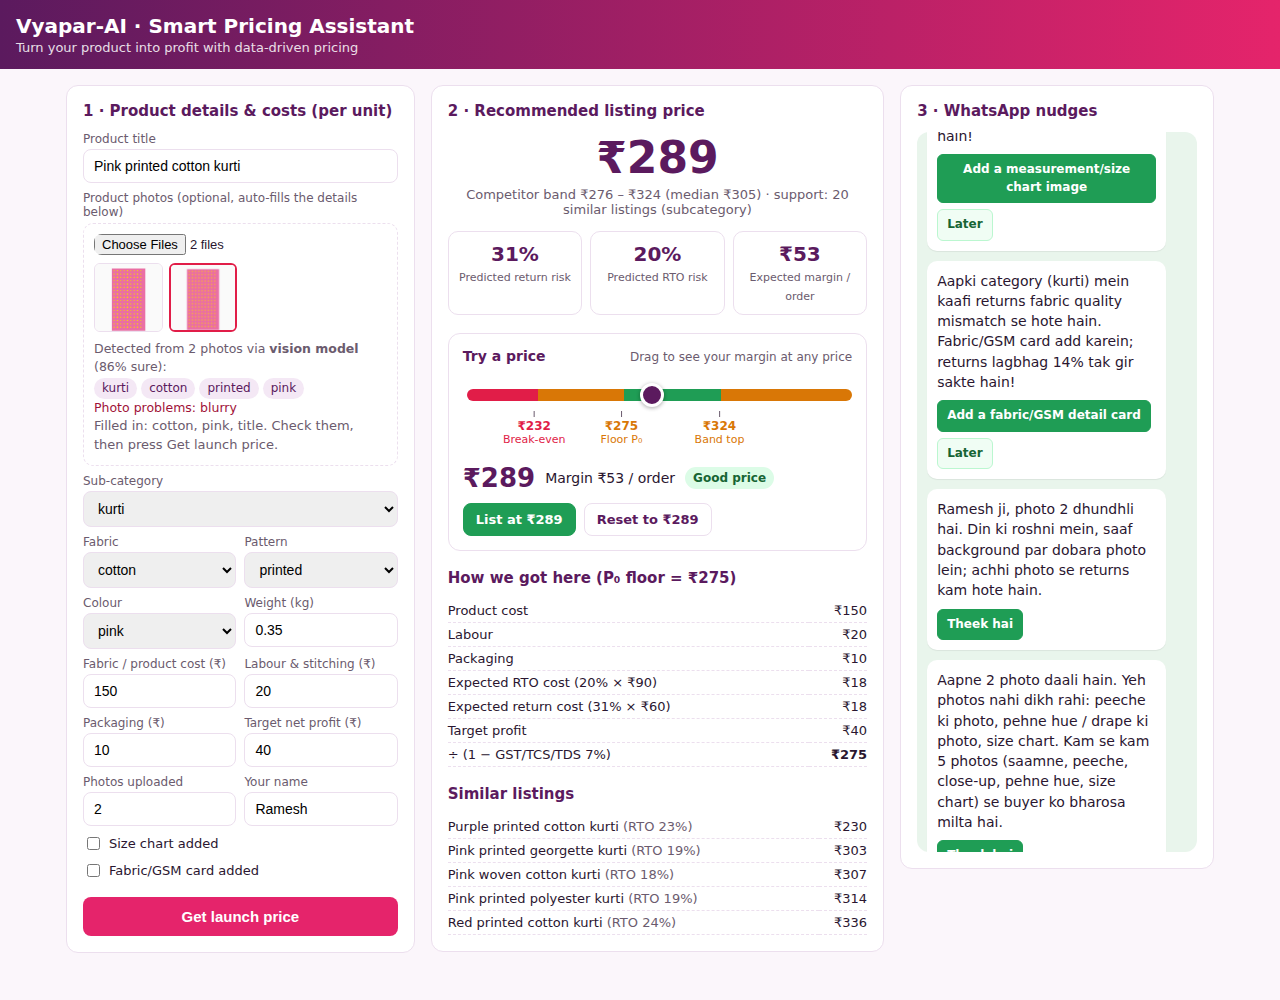
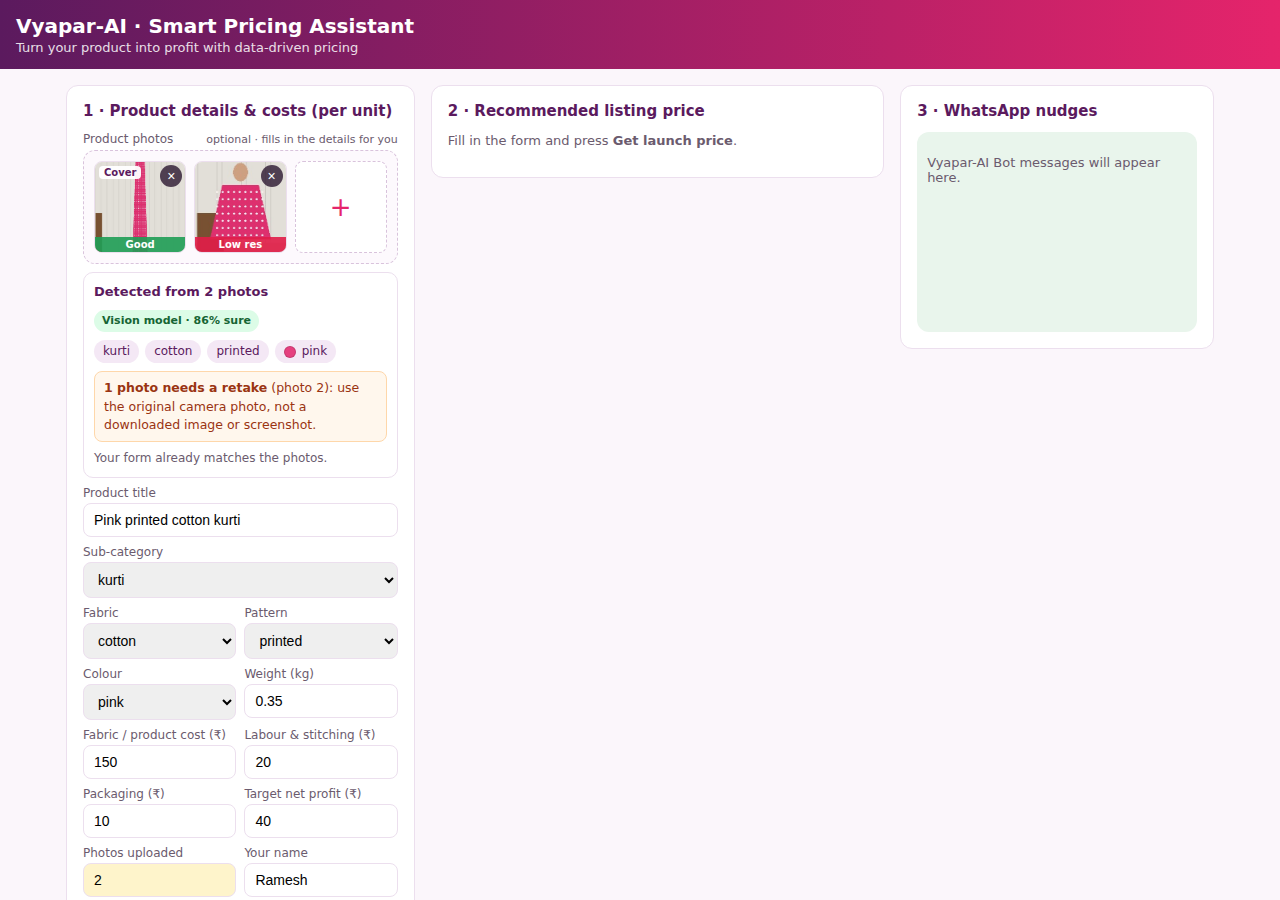
Improve photo upload UI and fix colour detection on room photos
- Colour: vote among clearly coloured pixels in the central region,
  weighted by saturation x brightness, so a pink kurti in front of an
  off-white wall is pink, not white. Neutral products fall back to
  black/white by dark-area share. Regression test added.
- Upload UI: photos first in the form, drag-and-drop zone, add-more tile,
  remove buttons, cover tag, per-photo Good/Low res/Blurry badges,
  detection card with source pill, colour swatch, retake tips, and a
  'from photo' tag on auto-filled fields.

diff --git a/web/index.html b/web/index.html
@@ -8,6 +8,7 @@
   :root { --plum:#5b1a5e; --pink:#e5246b; --green:#1f9d55; --amber:#d97706; --red:#e11d48; --bg:#fbf6fb;
           --card:#fff; --muted:#6b5b6e; --line:#ecdfee; --chat:#e9f5ec; --mine:#d9fdd3; }
   * { box-sizing: border-box; }
+  [hidden] { display:none !important; }
   body { margin:0; font-family: system-ui, -apple-system, "Segoe UI", sans-serif; background:var(--bg); color:#2a1630; }
   header { background:linear-gradient(90deg,var(--plum),var(--pink)); color:#fff; padding:14px 16px; }
   header h1 { margin:0; font-size:20px; } header p { margin:2px 0 0; opacity:.85; font-size:13px; }
@@ -82,18 +83,47 @@
   .muted { color:var(--muted); font-size:13px; }
 
   /* Photo upload */
-  .upload { margin-top:4px; border:1px dashed var(--line); border-radius:10px; padding:10px; }
-  .upload input[type=file] { border:0; padding:0; font-size:13px; }
-  .thumbs { display:grid; grid-template-columns:repeat(auto-fill, minmax(56px, 1fr)); gap:6px; margin-top:8px; }
-  .thumbs figure { margin:0; position:relative; }
-  .thumbs img { width:100%; aspect-ratio:1; object-fit:cover; border-radius:6px; border:1px solid var(--line); display:block; }
-  .thumbs figure.bad img { border:2px solid var(--red); }
-  .photo-status { margin-top:8px; font-size:12.5px; line-height:1.45; }
-  .photo-status .tag { display:inline-block; background:#f4e8f5; color:var(--plum); border-radius:999px; padding:2px 8px; margin:2px 4px 0 0; font-size:12px; }
-  .photo-status .bad { color:#9f1239; }
+  .vh { position:absolute; width:1px; height:1px; overflow:hidden; clip:rect(0 0 0 0); white-space:nowrap; }
+  .field-head { display:flex; justify-content:space-between; align-items:baseline; gap:8px; margin:8px 0 4px; }
+  .field-head .flabel { font-size:12px; color:var(--muted); }
+  .field-head .hint { font-size:11px; color:var(--muted); }
+  .dropzone { border:1.5px dashed #d9c3dc; border-radius:12px; background:#fdf9fd; padding:10px; transition:border-color .15s, background .15s; }
+  .dropzone.over { border-color:var(--pink); background:#fde9f0; }
+  .dz-empty { display:grid; justify-items:center; gap:4px; text-align:center; padding:14px 8px; cursor:pointer; margin:0; color:var(--plum); }
+  .dz-empty svg { width:30px; height:30px; color:var(--pink); }
+  .dz-empty b { font-size:14px; }
+  .dz-empty span { font-size:12px; color:var(--muted); }
+  .dz-empty .shotlist { font-size:11px; letter-spacing:.02em; }
+  .dz-empty:focus-within, .add-tile:focus-within { outline:2px solid var(--pink); outline-offset:2px; border-radius:8px; }
+  .thumbs { display:grid; grid-template-columns:repeat(auto-fill, minmax(72px, 1fr)); gap:8px; }
+  .thumbs:empty { display:none; }
+  .thumb { margin:0; position:relative; border-radius:8px; overflow:hidden; border:1px solid var(--line); background:#fff; }
+  .thumb img { width:100%; aspect-ratio:1; object-fit:cover; display:block; }
+  .thumb .cover { position:absolute; top:4px; left:4px; font-size:10px; font-weight:700; background:#fffffff0; color:var(--plum); padding:1px 5px; border-radius:4px; }
+  .thumb .rm { position:absolute; top:3px; right:3px; width:22px; height:22px; border-radius:50%; border:0; cursor:pointer;
+               background:#2a1630cc; color:#fff; font-size:14px; line-height:22px; padding:0; }
+  .thumb .badge { position:absolute; left:0; right:0; bottom:0; font-size:10px; font-weight:700; text-align:center; padding:2px 0;
+                  background:#e11d48e6; color:#fff; }
+  .thumb.ok .badge { background:#1f9d55e6; }
+  .add-tile { display:grid; place-items:center; aspect-ratio:1; border:1.5px dashed #d9c3dc; border-radius:8px; cursor:pointer;
+              color:var(--pink); font-size:26px; font-weight:300; margin:0; background:#fff; }
+  .photo-status { margin-top:8px; border:1px solid var(--line); border-radius:10px; padding:10px; font-size:13px; line-height:1.45; display:grid; gap:8px; }
+  .ps-head { display:flex; justify-content:space-between; align-items:center; gap:8px; flex-wrap:wrap; }
+  .ps-head b { color:var(--plum); }
+  .src { font-size:11px; font-weight:700; padding:3px 8px; border-radius:999px; background:#eee8ef; color:var(--muted); }
+  .src.vlm { background:#dcfce7; color:#166534; }
+  .chips { display:flex; flex-wrap:wrap; gap:6px; }
+  .chip2 { display:inline-flex; align-items:center; gap:6px; font-size:12px; padding:3px 9px; border-radius:999px; background:#f4e8f5; color:var(--plum); }
+  .swatch { width:12px; height:12px; border-radius:50%; border:1px solid #0002; }
+  .ps-warn { background:#fff7ed; border:1px solid #fed7aa; color:#9a3412; border-radius:8px; padding:7px 9px; font-size:12.5px; }
+  .ps-note { font-size:12px; color:var(--muted); }
+  .spinner { width:14px; height:14px; border:2px solid #e9d5ea; border-top-color:var(--pink); border-radius:50%; display:inline-block;
+             vertical-align:-2px; margin-right:6px; animation:spin .8s linear infinite; }
+  @keyframes spin { to { transform:rotate(360deg); } }
+  .auto { font-size:10px; font-weight:700; color:#166534; background:#dcfce7; border-radius:4px; padding:1px 5px; margin-left:6px; }
   .filled { animation: flash 1.6s ease-out; }
   @keyframes flash { from { background:#fef3c7; } to { background:#fff; } }
-  @media (prefers-reduced-motion: reduce) { .filled { animation:none; } }
+  @media (prefers-reduced-motion: reduce) { .filled, .spinner { animation:none; } }
 </style>
 </head>
 <body>
@@ -105,15 +135,22 @@
   <section class="card">
     <h2>1 · Product details & costs (per unit)</h2>
     <form id="f">
+      <div class="field-head"><span class="flabel" id="photosLabel">Product photos</span><span class="hint">optional · fills in the details for you</span></div>
+      <div class="dropzone" id="dropzone">
+        <input id="photos" class="vh" type="file" accept="image/jpeg,image/png,image/webp" multiple aria-labelledby="photosLabel">
+        <label for="photos" class="dz-empty" id="dzEmpty">
+          <svg viewBox="0 0 24 24" fill="none" stroke="currentColor" stroke-width="1.8" stroke-linecap="round" stroke-linejoin="round" aria-hidden="true">
+            <path d="M4 8h3l2-3h6l2 3h3a1 1 0 0 1 1 1v9a1 1 0 0 1-1 1H4a1 1 0 0 1-1-1V9a1 1 0 0 1 1-1z"/><circle cx="12" cy="13" r="3.5"/></svg>
+          <b>Add product photos</b>
+          <span>Drag &amp; drop or tap to choose · JPEG, PNG or WebP · up to 8</span>
+          <span class="shotlist">Front · Back · Close-up · Worn · Size chart</span>
+        </label>
+        <div class="thumbs" id="thumbs"></div>
+      </div>
+      <div id="photoStatus" class="photo-status" aria-live="polite" hidden></div>
+      <input type="hidden" id="photo_issues" name="photo_issues" value="0">
       <label for="title">Product title</label>
       <input id="title" name="title" value="Pink printed cotton kurti" required>
-      <label for="photos">Product photos (optional, auto-fills the details below)</label>
-      <div class="upload">
-        <input id="photos" type="file" accept="image/jpeg,image/png,image/webp" multiple>
-        <div id="thumbs" class="thumbs"></div>
-        <div id="photoStatus" class="photo-status muted">Up to 8 photos: front, back, close-up, worn/drape, size chart. They are checked on our server and, if a vision model is set up, sent to it.</div>
-      </div>
-      <input type="hidden" id="photo_issues" name="photo_issues" value="0">
       <label for="sub">Sub-category</label>
       <select name="subcategory" id="sub"></select>
       <div class="row">
@@ -399,70 +436,149 @@ async function applyLever(lever) {
 }
 
 /* ---------- photo upload + extraction ---------- */
-const ISSUE_LABEL = { blurry: "blurry", too_dark: "too dark", overexposed: "overexposed", low_resolution: "low resolution" };
+const MAX_PHOTOS = 8;
+const ISSUE_BADGE = { blurry: "Blurry", too_dark: "Too dark", overexposed: "Too bright", low_resolution: "Low res" };
+const ISSUE_TIP = {
+  low_resolution: "use the original camera photo, not a downloaded image or screenshot",
+  blurry: "hold the phone steady and tap the product to focus",
+  too_dark: "shoot in daylight, near a window",
+  overexposed: "avoid flash and harsh direct sunlight",
+};
+const SWATCH = { pink:"#e5407f", red:"#d0202f", blue:"#2f55c8", green:"#2e8b57", yellow:"#e6b800",
+                 black:"#222", white:"#fff", purple:"#7b3fa0", orange:"#f08a24" };
+let photoFiles = [], photoReq = 0;
 
 function flash(el) { el.classList.remove("filled"); void el.offsetWidth; el.classList.add("filled"); }
+function markAuto(id) {
+  const label = document.querySelector(`label[for="${id}"]`);
+  if (label && !label.querySelector(".auto")) {
+    const tag = document.createElement("span"); tag.className = "auto"; tag.textContent = "from photo";
+    label.appendChild(tag);
+  }
+}
+function clearAuto(id) { const t = document.querySelector(`label[for="${id}"] .auto`); if (t) t.remove(); }
+["title", "sub", "fabric", "pattern", "color"].forEach(id => $(id).addEventListener("input", () => clearAuto(id)));
 function setField(id, value) {
   const el = $(id);
   if (!el || value === null || value === undefined || value === "") return false;
   if (el.tagName === "SELECT" && ![...el.options].some(o => o.value === value)) return false;
   if (el.value === String(value)) return false;
-  el.value = value; flash(el); return true;
+  el.value = value; flash(el); markAuto(id); return true;
 }
 
-$("photos").addEventListener("change", async e => {
-  const files = [...e.target.files].slice(0, 8);
-  const status = $("photoStatus"), thumbs = $("thumbs");
+function addPhotos(list) {
+  const ok = [...list].filter(f => /^image\/(jpeg|png|webp)$/.test(f.type));
+  for (const f of ok) {
+    if (photoFiles.length >= MAX_PHOTOS) break;
+    if (!photoFiles.some(g => g.name === f.name && g.size === f.size)) photoFiles.push(f);
+  }
+  if (ok.length < list.length) showPhotoError("Only JPEG, PNG or WebP photos can be added.");
+  renderThumbs();
+  analyse();
+}
+function removePhoto(i) {
+  photoFiles.splice(i, 1);
+  renderThumbs();
+  analyse();
+}
+
+function renderThumbs(report) {
+  const thumbs = $("thumbs");
   thumbs.innerHTML = "";
-  photoNudges = [];
-  $("photo_issues").value = 0;
-  if (!files.length) return;
-  files.forEach(f => {
-    const fig = document.createElement("figure");
-    const img = document.createElement("img"); img.alt = f.name; img.src = URL.createObjectURL(f);
-    fig.appendChild(img); thumbs.appendChild(fig);
+  $("dzEmpty").hidden = photoFiles.length > 0;
+  photoFiles.forEach((f, i) => {
+    const fig = document.createElement("figure"); fig.className = "thumb";
+    const img = document.createElement("img"); img.alt = `Photo ${i + 1}: ${f.name}`;
+    img.src = f._url || (f._url = URL.createObjectURL(f));
+    fig.appendChild(img);
+    if (i === 0) { const c = document.createElement("span"); c.className = "cover"; c.textContent = "Cover"; fig.appendChild(c); }
+    const rm = document.createElement("button"); rm.type = "button"; rm.className = "rm"; rm.textContent = "×";
+    rm.setAttribute("aria-label", `Remove photo ${i + 1}`); rm.addEventListener("click", () => removePhoto(i));
+    fig.appendChild(rm);
+    const p = report && report.photos[i];
+    if (p) {
+      const badge = document.createElement("span"); badge.className = "badge";
+      if (p.issues.length) { badge.textContent = ISSUE_BADGE[p.issues[0]] || p.issues[0]; fig.title = p.issues.map(x => ISSUE_BADGE[x] || x).join(", "); }
+      else { badge.textContent = "Good"; fig.classList.add("ok"); }
+      fig.appendChild(badge);
+    }
+    thumbs.appendChild(fig);
   });
-  status.textContent = "Analysing photos…";
+  if (photoFiles.length && photoFiles.length < MAX_PHOTOS) {
+    const add = document.createElement("label"); add.className = "add-tile"; add.htmlFor = "photos";
+    add.title = "Add more photos"; add.innerHTML = '<span aria-hidden="true">+</span><span class="vh">Add more photos</span>';
+    thumbs.appendChild(add);
+  }
+}
+
+function showPhotoError(msg) {
+  const st = $("photoStatus"); st.hidden = false;
+  st.innerHTML = `<div class="ps-warn">${esc(msg)}</div>`;
+}
+
+async function analyse() {
+  const st = $("photoStatus");
+  photoNudges = []; $("photo_issues").value = 0;
+  if (!photoFiles.length) { st.hidden = true; st.innerHTML = ""; return; }
+  const req = ++photoReq;
+  st.hidden = false;
+  st.innerHTML = `<div><span class="spinner" aria-hidden="true"></span>Reading your ${photoFiles.length} photo${photoFiles.length > 1 ? "s" : ""}…</div>`;
   const fd = new FormData();
-  files.forEach(f => fd.append("files", f));
+  photoFiles.forEach(f => fd.append("files", f));
   fd.append("seller_name", $("seller_name").value || "Seller");
   try {
     const r = await fetch("/api/photos/analyze", { method: "POST", body: fd });
     const d = await r.json().catch(() => ({}));
+    if (req !== photoReq) return;                       // a newer upload is in flight
     if (!r.ok) throw new Error(typeof d.detail === "string" ? d.detail : "Upload failed (" + r.status + ")");
     applyPhotoReport(d);
   } catch (err) {
-    status.innerHTML = `<span class="bad">${esc(err.message)}</span>`;
+    if (req === photoReq) showPhotoError(err.message);
   }
-});
+}
+
+$("photos").addEventListener("change", e => { addPhotos(e.target.files); e.target.value = ""; });
+const dz = $("dropzone");
+["dragenter", "dragover"].forEach(t => dz.addEventListener(t, e => { e.preventDefault(); dz.classList.add("over"); }));
+["dragleave", "drop"].forEach(t => dz.addEventListener(t, e => { e.preventDefault(); dz.classList.remove("over"); }));
+dz.addEventListener("drop", e => addPhotos(e.dataTransfer.files));
 
 function applyPhotoReport(d) {
   const s = d.suggested, filled = [];
-  if (setField("sub", s.subcategory)) filled.push(s.subcategory.replaceAll("_", " "));
-  if (setField("fabric", s.fabric)) filled.push(s.fabric);
-  if (setField("pattern", s.pattern)) filled.push(s.pattern);
-  if (setField("color", s.color)) filled.push(s.color);
+  if (setField("sub", s.subcategory)) filled.push("sub-category");
+  if (setField("fabric", s.fabric)) filled.push("fabric");
+  if (setField("pattern", s.pattern)) filled.push("pattern");
+  if (setField("color", s.color)) filled.push("colour");
   if (s.title && setField("title", s.title)) filled.push("title");
-  setField("image_count", s.image_count);
+  setField("image_count", s.image_count); clearAuto("image_count");
   if (s.has_size_chart && !$("has_size_chart").checked) { $("has_size_chart").checked = true; filled.push("size chart"); }
   if (s.has_fabric_card && !$("has_fabric_card").checked) { $("has_fabric_card").checked = true; filled.push("fabric card"); }
-  const photoIssues = d.photos.reduce((n, p) => n + p.issues.length, 0);
-  $("photo_issues").value = photoIssues;
-  [...$("thumbs").children].forEach((fig, i) => {
-    const p = d.photos[i];
-    if (p && p.issues.length) { fig.classList.add("bad"); fig.title = p.issues.map(x => ISSUE_LABEL[x] || x).join(", "); }
-  });
+  $("photo_issues").value = d.photos.reduce((n, p) => n + p.issues.length, 0);
   photoNudges = d.nudges || [];
-  const detected = [s.subcategory, s.fabric, s.pattern, s.color].filter(Boolean).map(x => x.replaceAll("_", " "));
-  const conf = s.confidence != null ? ` (${Math.round(s.confidence * 100)}% sure)` : "";
-  const source = d.backend === "vlm" ? "vision model" : "photo checks only";
-  let html = `<div>Detected from ${d.photos.length} photo${d.photos.length > 1 ? "s" : ""} via <b>${esc(source)}</b>${esc(conf)}:</div>`;
-  html += detected.length ? detected.map(t => `<span class="tag">${esc(t)}</span>`).join("") : `<span class="muted">no details detected</span>`;
-  if (s.has_size_chart) html += `<span class="tag">size chart</span>`;
-  if (s.has_fabric_card) html += `<span class="tag">fabric label</span>`;
-  if (d.issues.length) html += `<div class="bad">Photo problems: ${esc(d.issues.map(x => ISSUE_LABEL[x] || x).join(", "))}</div>`;
-  if (d.model_error) html += `<div class="muted">Vision model unavailable, used photo checks instead.</div>`;
-  html += `<div class="muted">${filled.length ? "Filled in: " + esc(filled.join(", ")) + ". Check them, then press Get launch price." : "Nothing changed in the form."}</div>`;
+  renderThumbs(d);
+
+  const vlm = d.backend === "vlm";
+  const conf = vlm && s.confidence != null ? ` · ${Math.round(s.confidence * 100)}% sure` : "";
+  const chip = (text, sw) => `<span class="chip2">${sw ? `<span class="swatch" style="background:${sw}"></span>` : ""}${esc(text)}</span>`;
+  const chips = [];
+  if (s.subcategory) chips.push(chip(s.subcategory.replaceAll("_", " ")));
+  if (s.fabric) chips.push(chip(s.fabric));
+  if (s.pattern) chips.push(chip(s.pattern));
+  if (s.color) chips.push(chip(s.color, SWATCH[s.color]));
+  if (s.has_size_chart) chips.push(chip("size chart"));
+  if (s.has_fabric_card) chips.push(chip("fabric label"));
+
+  let html = `<div class="ps-head"><b>Detected from ${d.photos.length} photo${d.photos.length > 1 ? "s" : ""}</b>
+    <span class="src ${vlm ? "vlm" : ""}">${vlm ? "Vision model" + esc(conf) : "Photo checks"}</span></div>`;
+  html += chips.length ? `<div class="chips">${chips.join("")}</div>` : `<div class="ps-note">No product details detected.</div>`;
+  const bad = d.photos.map((p, i) => ({ p, i })).filter(x => x.p.issues.length);
+  if (bad.length) {
+    const kinds = [...new Set(bad.flatMap(x => x.p.issues))];
+    html += `<div class="ps-warn"><b>${bad.length} photo${bad.length > 1 ? "s need" : " needs"} a retake</b> (${
+      bad.map(x => "photo " + (x.i + 1)).join(", ")}): ${esc(kinds.map(k => ISSUE_TIP[k] || k).join("; "))}.</div>`;
+  }
+  if (!vlm) html += `<div class="ps-note">${d.model_error ? "Vision model unavailable right now. " : ""}Colour and photo quality are checked here; category, fabric and pattern need a vision model, so pick them below.</div>`;
+  html += `<div class="ps-note">${filled.length ? "Filled in: " + esc(filled.join(", ")) + ". Check them, then press Get launch price." : "Your form already matches the photos."}</div>`;
   $("photoStatus").innerHTML = html;
 }
 </script>

diff --git a/vyapar_ai/vision.py b/vyapar_ai/vision.py
@@ -129,20 +129,28 @@ def _hue_to_color(h: float, s: float, v: float) -> str:
 
 
 def dominant_color(img: Image.Image) -> Optional[str]:
-    """Most common product colour, ignoring a plain white/grey background."""
-    small = img.copy()
-    small.thumbnail((96, 96))
-    hsv = np.asarray(small.convert("HSV"), dtype=np.float32) / 255.0
-    h, s, v = hsv[..., 0].ravel() * 360, hsv[..., 1].ravel(), hsv[..., 2].ravel()
-    background = (v > 0.85) & (s < 0.12)
-    keep = ~background
-    if keep.sum() < 0.05 * keep.size:      # nearly all background: a white product
-        return "white"
-    votes: dict[str, int] = {}
-    for hh, ss, vv in zip(h[keep], s[keep], v[keep]):
-        c = _hue_to_color(hh, ss, vv)
-        votes[c] = votes.get(c, 0) + 1
-    return max(votes, key=votes.get) if votes else None
+    """Main product colour.
+
+    Product photos put the product near the centre, often against a room or
+    wall rather than a pure white sweep. So: look at the central region, and
+    vote among clearly coloured pixels weighted by saturation x brightness,
+    which lets a pink kurti beat an off-white wall, a wooden table or skin.
+    Only when almost nothing is coloured is the product white, grey or black.
+    """
+    w, h = img.size
+    crop = img.crop((int(w * 0.2), int(h * 0.1), int(w * 0.8), int(h * 0.95)))
+    crop.thumbnail((128, 128))
+    hsv = np.asarray(crop.convert("HSV"), dtype=np.float32) / 255.0
+    hh, ss, vv = hsv[..., 0].ravel() * 360, hsv[..., 1].ravel(), hsv[..., 2].ravel()
+    chromatic = (ss >= 0.25) & (vv >= 0.25)
+    if chromatic.mean() >= 0.06:
+        votes: dict[str, float] = {}
+        for a, b, c in zip(hh[chromatic], ss[chromatic], vv[chromatic]):
+            name = _hue_to_color(a, b, c)
+            votes[name] = votes.get(name, 0.0) + float(b * c)
+        return max(votes, key=votes.get)
+    # Neutral product: black if a sizeable dark area sits in the centre.
+    return "black" if float((vv < 0.25).mean()) >= 0.15 else "white"
 
 
 def photo_checks(p: Photo) -> dict:

diff --git a/tests/test_vision.py b/tests/test_vision.py
@@ -120,3 +120,28 @@ def test_analyze_endpoint_without_model(monkeypatch):
     bad = client.post("/api/photos/analyze", files=[("files", ("x.txt", b"hi", "text/plain"))])
     assert bad.status_code == 422 and "not a readable image" in bad.json()["detail"]
     m.vision_extractor.cache_clear()
+
+
+def room_photo(garment_rgb, size=(300, 450)):
+    """Model in a room: off-white panelled wall, wooden table, skin, embroidered kurti."""
+    w, h = size
+    img = Image.new("RGB", size, (226, 222, 216))
+    d = ImageDraw.Draw(img)
+    for x in range(0, w, 60):
+        d.rectangle([x + 6, 20, x + 54, h - 60], outline=(205, 200, 195), width=2)
+    d.rectangle([0, h - 60, w, h], fill=(200, 190, 175))
+    d.rectangle([5, int(h * .55), 70, h - 40], fill=(120, 80, 50))
+    d.ellipse([w // 2 - 18, 40, w // 2 + 18, 85], fill=(205, 160, 130))
+    d.polygon([(w // 2 - 45, 95), (w // 2 + 45, 95), (w // 2 + 75, h - 70), (w // 2 - 75, h - 70)],
+              fill=garment_rgb)
+    for x in range(w // 2 - 60, w // 2 + 60, 14):
+        for y in range(110, h - 80, 18):
+            d.ellipse([x, y, x + 4, y + 4], fill=(250, 240, 240))
+    return img
+
+
+@pytest.mark.parametrize("rgb,name", [((222, 48, 110), "pink"), ((30, 60, 180), "blue"),
+                                      ((240, 240, 236), "white"), ((25, 25, 30), "black")])
+def test_dominant_color_in_a_room_photo(rgb, name):
+    # Regression: a pink kurti against an off-white wall used to come out "white".
+    assert vision.dominant_color(room_photo(rgb)) == name
